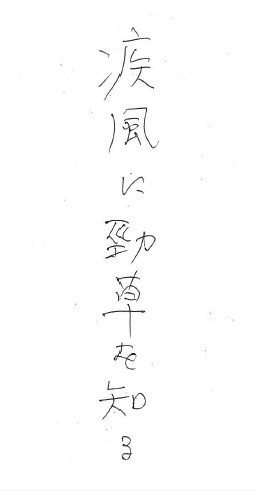
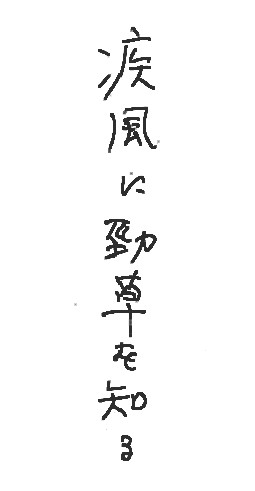
update column design

diff --git a/_drafts/obog01-kawamata.md b/_drafts/obog01-kawamata.md
@@ -143,7 +143,7 @@ OB会活動が今以上に盛り上がることで、もっともっと現役世
 <h4>“疾風に勁草を知る”</h4>
 
 <div class="image-box right w200">
-    <img src="/assets/images/topics/2021/kawamata/column.jpg" alt="OWLSの未来について語る川俣氏">
+    <img src="/assets/images/topics/2021/kawamata/column.jpg" alt="疾風に勁草を知る" style="border: black 1px solid; box-shadow: 3px 2px 2px silver">
 </div>
 
 <dl>
